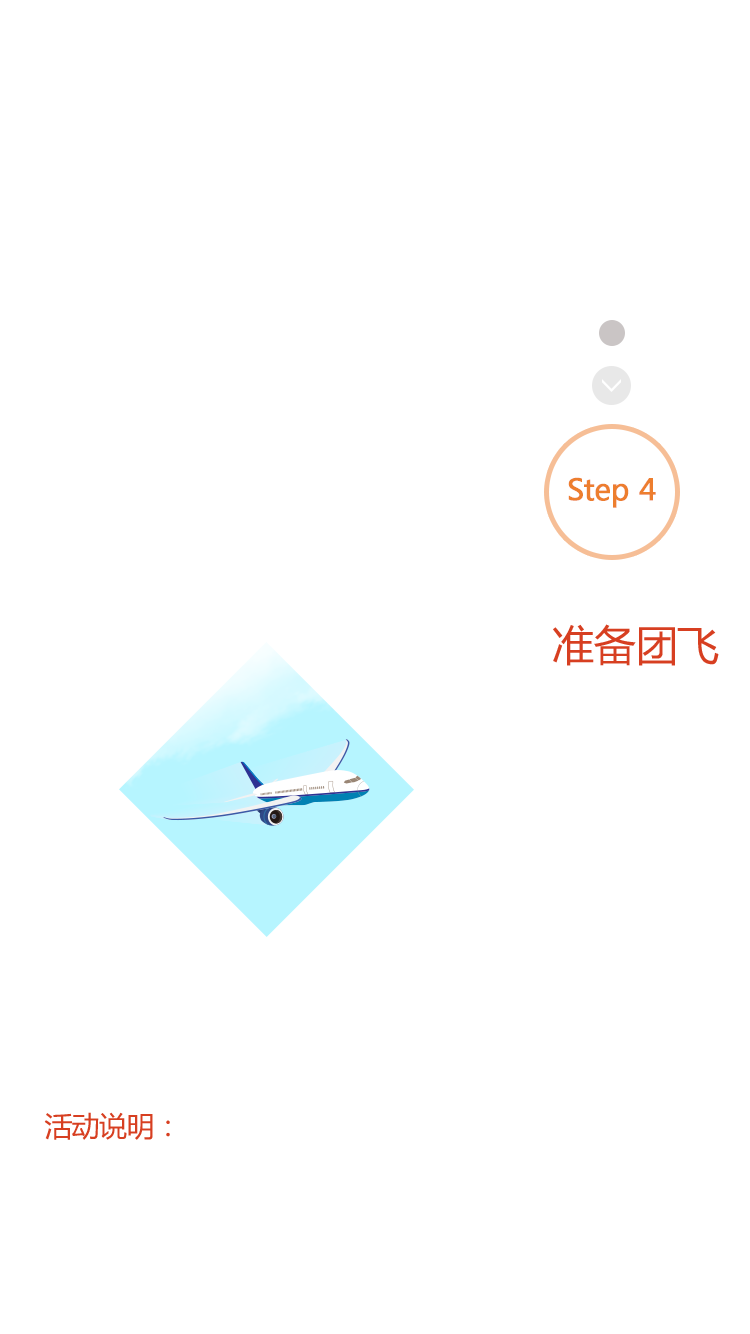
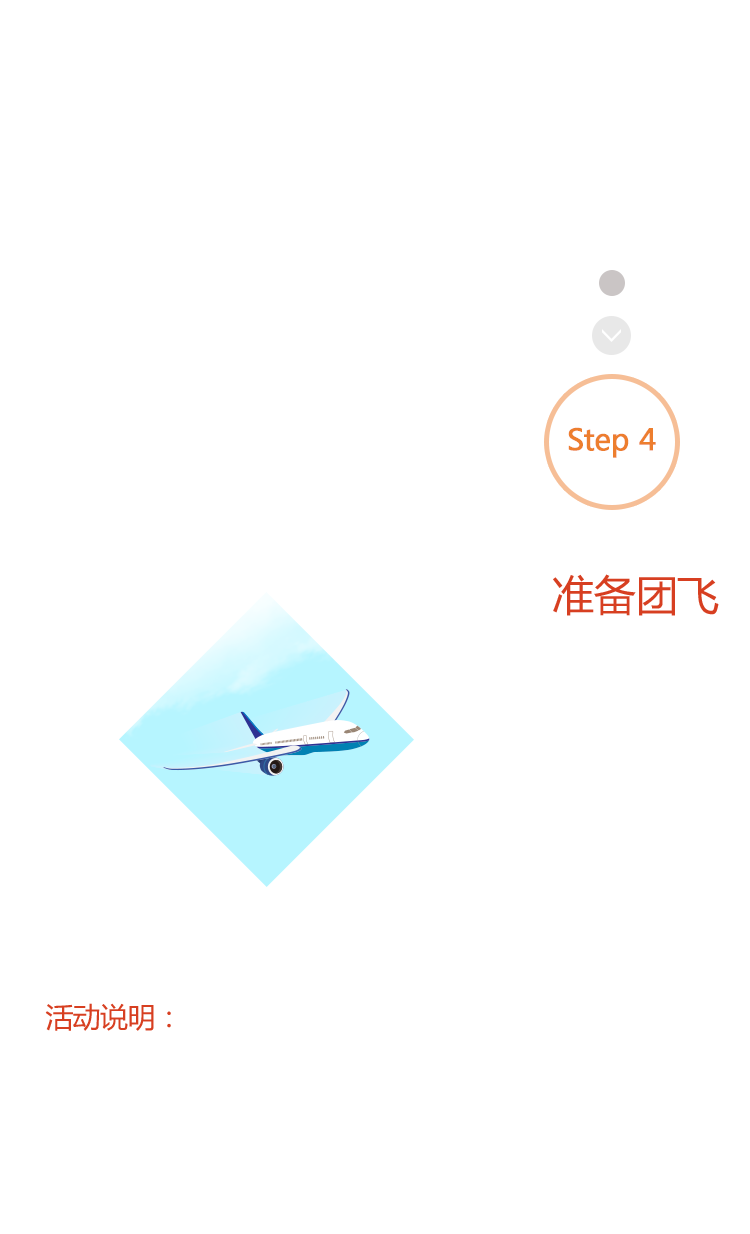
gif太大 换成图片 加了罩层

diff --git a/app/less/base.less b/app/less/base.less
@@ -26,8 +26,7 @@ html {
         }
     }
     .clock {
-        text-align: center;
-        margin-top: 0.46rem;
+        text-align: center; 
         p {
             font-size: 0.4rem;
             font-family: 微软雅黑;
@@ -39,8 +38,9 @@ html {
             span {
                 font-size: 0.59rem;
             }
-        }
-        margin-bottom: .5rem;
+        } 
+        margin-top: -0.1rem;
+        margin-bottom: 0.15rem;
     }
 }
 
@@ -91,8 +91,8 @@ html {
     position: relative;
     img.urlCode {
         position: absolute;
-        width: 28.02%;
-        left: 35.99%;
+        width: 30.3%;
+        left: 34.85%;
         top: 1;
     }
 }
@@ -104,7 +104,7 @@ html {
         position: absolute;
         width: 28%;
         left: 44.8%;
-        top: 59.0%;
+        top: 59.8%;
         transform-origin: 0 0;
         transform: rotate(-45deg);
     }
@@ -117,7 +117,7 @@ html {
         position: absolute;
         width: 15.87%;
         left: 80%;
-        top: 87.0%;
+        top: 85%;
     }
 }
 
@@ -143,13 +143,17 @@ html {
     padding: 0 0.05rem;
 }
 
-body {
-    // background: url('../images/bg.jpg') 0 0 repeat-y;
-    background-size: 100% 100%;
-    background-color: #0A2E62;
+.page-container {
+    background: url('../images/bg.jpg') 0 0 repeat-y;
+    background-size: 100% auto;
+    // background-color: #0A2E62;
+    max-width: 819px;
+    margin: 0 auto;
 }
 
-body,
-html {
-    max-width: 1024px;
+ 
+#fullpage{ 
+    max-width: 819px;
+    margin: 0 auto;
+    background-color: rgba(0,0,0,0.3)
 }

diff --git a/app/index.tmpl.html b/app/index.tmpl.html
@@ -14,7 +14,7 @@
 </head>
 
 <body>
-
+  <div class="page-container">
   <div id="fullpage">
     <div class="section " id="section0">
       <!--<video class="myVideo" loop muted data-autoplay>
@@ -108,8 +108,10 @@
       </div>
     </div>
   </div>
+  </div>
   <script src="static/js/jquery.min.js"></script>
   <script src="static/js/rem.js"></script>
+
 </body>
 
 </html>

diff --git a/webpack.config.js b/webpack.config.js
@@ -35,7 +35,7 @@ module.exports = {
                 }) //添加对样式表的处理
             },
             {
-                test: /\.(png|jpg)$/,
+                test: /\.(png|jpg|gif)$/,
                 loader: 'url-loader?limit=100&name=images/[name]-[hash:8].[ext]'
             },
             {　　　　　　

diff --git a/app/js/logic.js b/app/js/logic.js
@@ -27,6 +27,7 @@
          verticalCentered: true
      });
      $.fn.fullpage.setAllowScrolling(true);
+     
      // 动态计算code-box高度
      var totalH = $('#fullpage').height();
      var top = $('#section0 .header').height();
